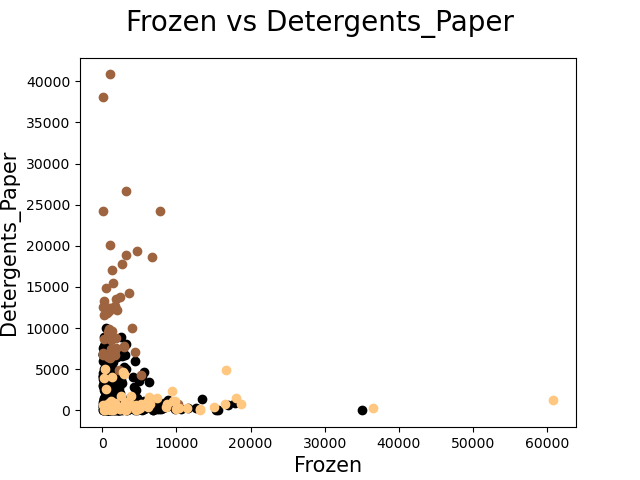
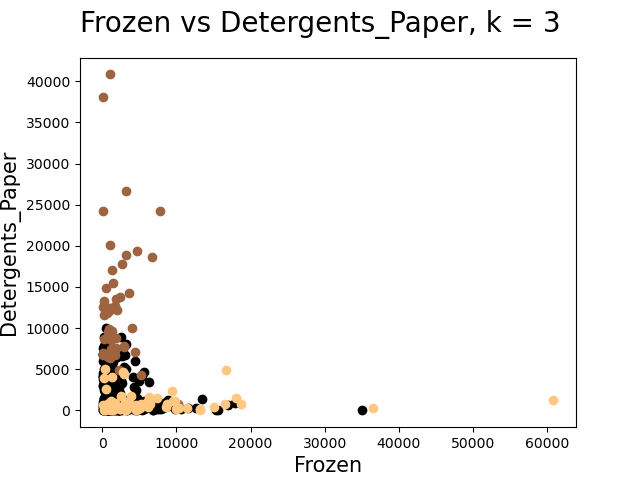
included calinski

Changed region(s): [[0.125, 0.0, 0.875, 0.0938]]

diff --git a/Clustering.py b/Clustering.py
@@ -3,6 +3,7 @@ import pandas as pd
 
 from sklearn.cluster import KMeans
 from sklearn.metrics.pairwise import euclidean_distances
+from sklearn.metrics import calinski_harabasz_score
 
 import matplotlib.pyplot as plt
 from matplotlib import cm
@@ -68,7 +69,7 @@ def plotKmeans(X, clusters, k):
         for i in np.unique(clusters):
             c = "Cluster:" + str(i+1)
             plt.scatter(Xsample.iloc[clusters==i,0],Xsample.iloc[clusters==i,1], color=next(colours),label=c)
-        plt.suptitle(str(pair[0] + " vs " + pair[1]),fontsize=20)
+        plt.suptitle(str(pair[0] + " vs " + pair[1] + ", k = " + str(k)),fontsize=20)
         plt.xlabel(pair[0], fontsize=15)
         plt.ylabel(pair[1], fontsize=15)
         name = (pair[0] + " " + pair[1] + ".png")
@@ -78,45 +79,25 @@ def plotKmeans(X, clusters, k):
 def betweenClusterScore(fitter):
     '''
     Calculates between cluster score of model
-    i.e., between centres of clusters
+    i.e., between cluster centres
 
     Args: fitter -- Trained k-means model
 
     Returns: dists -- Array of pairwise distances from each cluster to one another
     '''
+    # Get Euclid distances between cluster centres
     bc = euclidean_distances(fitter.cluster_centers_)
     dists = 0
     for c in bc:
+        # Filter out cluster dist to itself
         c = c[list(c).index(0):]
-        # sum the squared distances
+        # Sum the squared distances
         dists += sum([n**2 for n in c])
     return dists
 
-
-# def withinClusterScore(X,clusterLabels,fitter):
-#     '''
-#     Calculates score within cluster
-#     i.e., sum of squared euclidean distances to cluster centre 
-
-#     Args: X -- Dataset
-#           clusterLabels -- Cluster labels for each dataset instance
-#           fitter -- trained K-means model
-
-#     Returns: dists -- Array of k within-cluster distances
-#     '''
-
-#     k = fitter.n_clusters
-#     wc = []
-#     for i in range(k):
-#         dists = 0
-#         clustFeats = X.loc[clusterLabels == i] # get features in cluster i
-#         for row in clustFeats.iterrows():
-#             dist = np.linalg.norm(fitter.cluster_centers_[i] - row[1].values)
-#             dists += dist**2
-#         wc.append(dists)
-#     return dists
-
-
+# def calinskiHarabaz(ratio,k,clusterLabels):
+#     n = len(clusterLabels)
+#     return ratio * (n-k)/(k-1)
 
 
 # ****************
@@ -141,24 +122,28 @@ for attr in tabl:
 # ****************
 
 k=3
-fitter, clusters = kmeans(customerData,k)
-plotKmeans(customerData,clusters,k)
+# fitter, clusters = kmeans(customerData,k)
+# plotKmeans(customerData,clusters,k)
 
 
 # ****************
 # 2.3
 # ****************
 kSet = [3,5,10]
-BCs,WCs,ratios = [],[],[]
+BCs,WCs,ratios,caliHs = [],[],[],[]
 for i in kSet:
     fitter, clusterLabels = kmeans(customerData,i)
     BC = betweenClusterScore(fitter)
-    # WC = withinClusterScore(customerData,clusterLabels,fitter)
     WC = fitter.inertia_
+    ratio = BC/WC
+    # caliH = calinskiHarabaz(ratio,k,clusterLabels)
+    caliH = calinski_harabasz_score(customerData,clusterLabels)
     BCs.append(BC)
     WCs.append(WC)
-    ratios.append(BC/WC)
+    ratios.append(ratio)
+    caliHs.append(caliH)
 
-print(BCs)
-print(WCs)
-print(ratios)
+print("BC Scores: " + str(BCs))
+print("WC Scores: " + str(WCs))
+print("Ratios: " + str(ratios))
+print("Calinksi-Harabaz's: " + str(caliHs))
